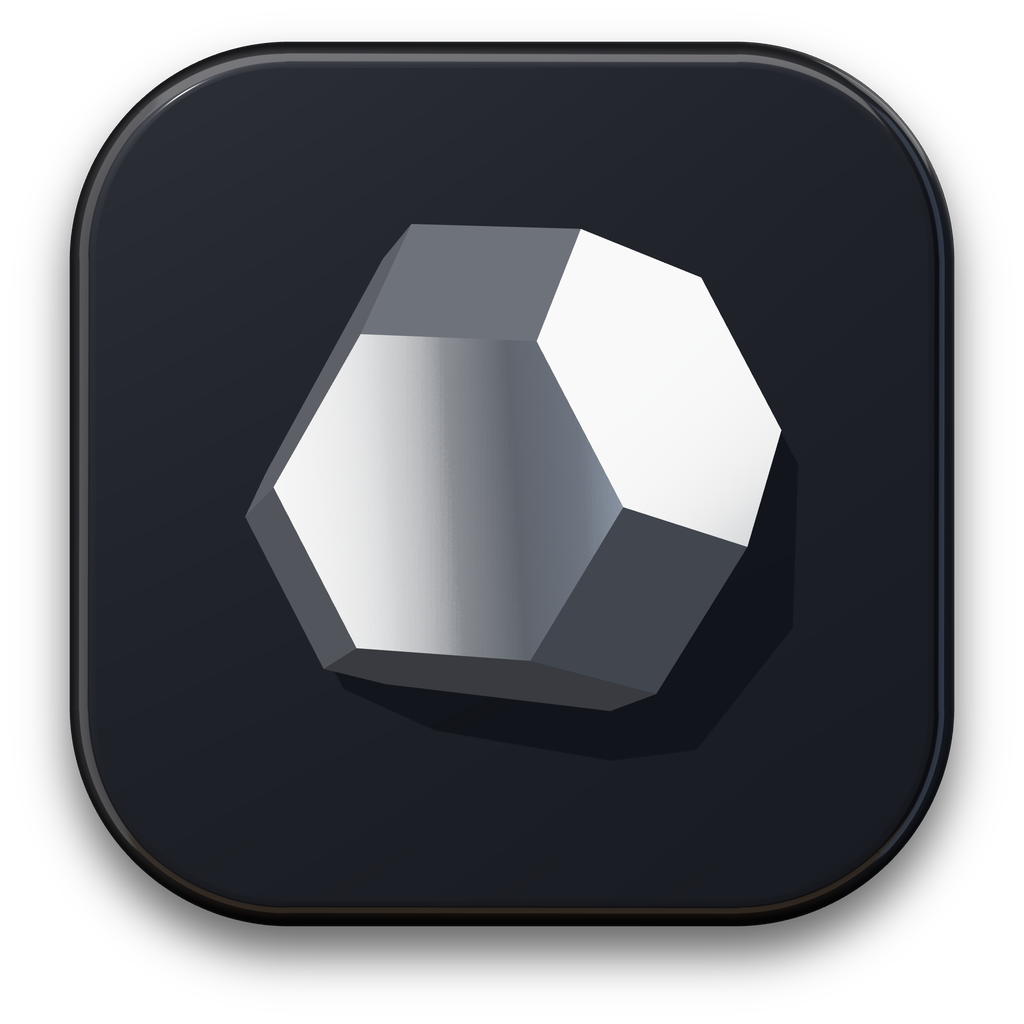
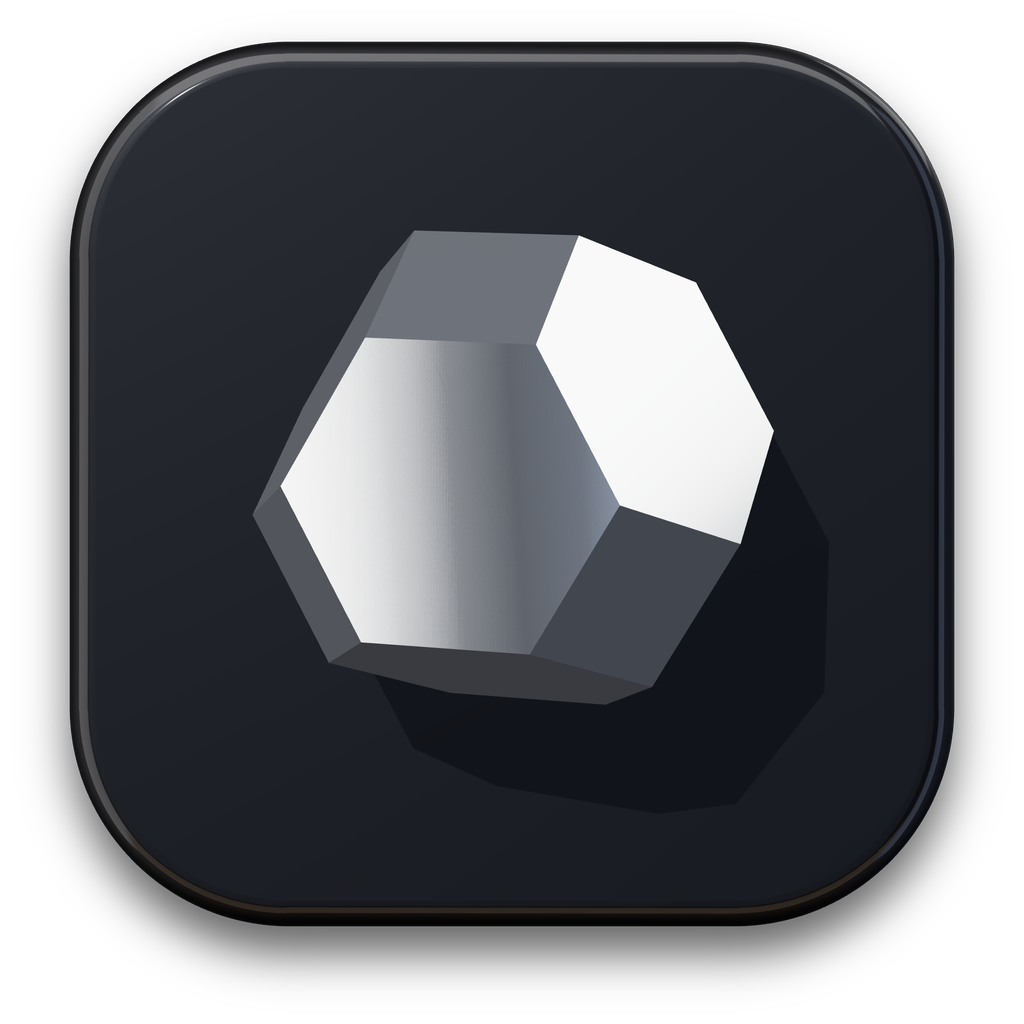
brand: lift the silver crystal off the key

diff --git a/tools/brand-3d/silvercrystal.js b/tools/brand-3d/silvercrystal.js
@@ -142,9 +142,9 @@ const silver = new THREE.MeshStandardMaterial({
   envMapIntensity: 2.4,
 });
 const crystal = new THREE.Mesh(crystalGeometry(), silver);
-crystal.scale.setScalar(118);
+crystal.scale.setScalar(108);
 crystal.rotation.set(0.62, 0.52, 0.18);
-crystal.position.set(0, 10, 90);
+crystal.position.set(0, 10, 260);
 crystal.castShadow = true;
 scene.add(crystal);
 
